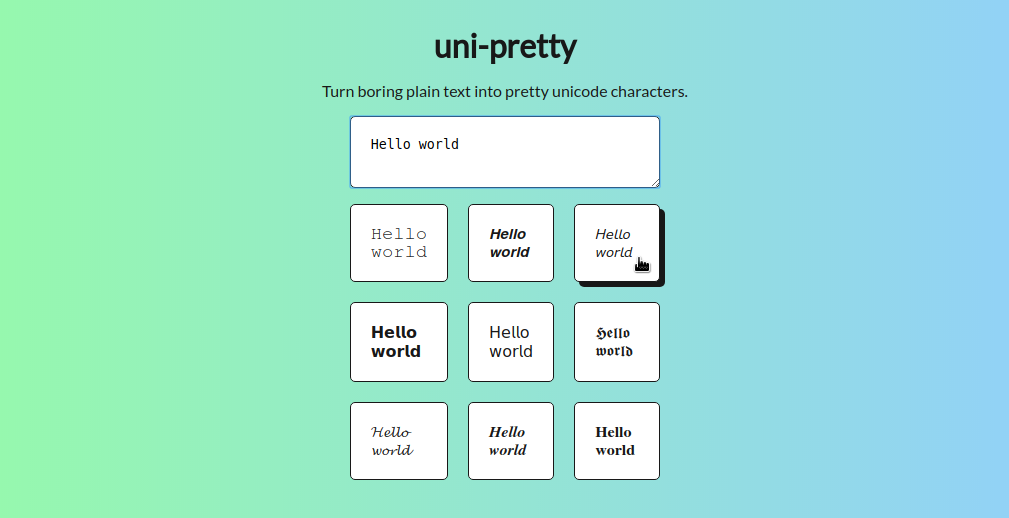
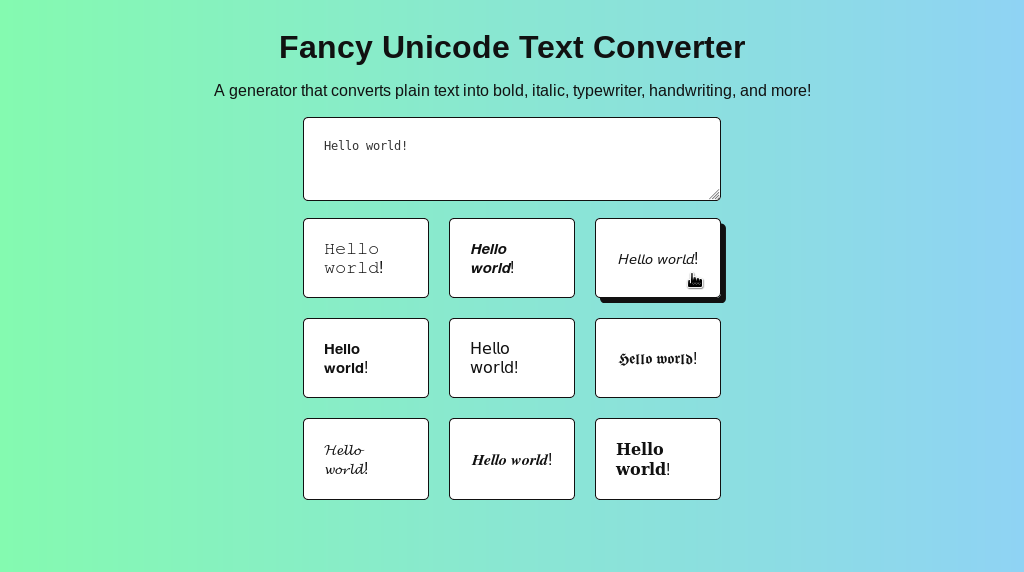
Update preprocessor, README

Changed region(s): [[0.2151, 0.0618, 0.7988, 0.9266]]

diff --git a/sass/min.sass b/sass/min.sass
@@ -1,0 +1,97 @@
+@import "vars"
+
+*
+    box-sizing: border-box
+
+html
+    box-sizing: border-box
+    font-family: $font
+    font-size: 16px
+    color: $black
+
+body
+    background-image: linear-gradient(to right, #84fab0 0%, #8fd3f4 100%)
+    background-position: fixed
+    display: flex
+    flex-direction: column
+    justify-content: space-between
+    align-items: center
+
+a
+    color: #444
+    text-decoration: none
+
+h1,h2,h3, p
+    margin-bottom: 0.5rem
+    text-align: center
+    font-family: Verdana, Tahoma, Arial, sans-serif
+
+button
+    padding: 20px
+    border: 0px
+    border-radius: 5px
+    background: $white
+    &:hover
+        box-shadow: 5px 5px $black
+
+.app
+    min-height: 80vh
+
+.section
+    display: flex
+    justify-content: center
+    align-items: center
+    margin: 1rem auto
+    width: 70%
+    @media screen and (max-width: 736px)
+        margin: 1rem
+        width: auto
+
+#string
+    padding: 20px
+    border: 1px solid $black
+    border-radius: 5px
+    background: $white
+    width: 500px
+    min-height: 3rem
+    @media screen and (max-width: 736px)
+        width: 100%
+
+#result
+    padding: 20px
+    border: 1px solid $black
+    border-radius: 5px
+    background: $white
+
+.alert
+    font-size: 0.8rem
+    color: $black
+    font-weight: 600
+
+.grid
+    display: grid
+    grid-gap:  20px
+    grid-template-columns: repeat(3, 1fr)
+    @media screen and (max-width: 736px)
+        grid-template-columns: repeat(2, 1fr)
+
+.item 
+    display: grid
+    justify-content: center
+    align-items: center
+    border: 1px solid $black
+    border-radius: 5px
+    background: $white
+    padding: 5px
+    &:hover
+        cursor: pointer
+        box-shadow: 5px 5px $black
+
+.tag
+    width: 100%
+    display: flex
+    flex-direction: column
+    justify-content: center
+    @media screen and (min-width: 737px)
+        position: absolute
+        bottom: 0.5rem

diff --git a/static/css/min.css b/static/css/min.css
@@ -1,0 +1,2 @@
+*{box-sizing:border-box}html{box-sizing:border-box;font-family:Arial,Helvetica,sans-serif;font-size:16px;color:#111}body{background-image:linear-gradient(to right, #84fab0 0%, #8fd3f4 100%);background-position:fixed;display:flex;flex-direction:column;justify-content:space-between;align-items:center}a{color:#444;text-decoration:none}h1,h2,h3,p{margin-bottom:0.5rem;text-align:center;font-family:Verdana,Tahoma,Arial,sans-serif}button{padding:20px;border:0px;border-radius:5px;background:#fff}button:hover{box-shadow:5px 5px #111}.app{min-height:80vh}.section{display:flex;justify-content:center;align-items:center;margin:1rem auto;width:70%}@media screen and (max-width: 736px){.section{margin:1rem;width:auto}}#string{padding:20px;border:1px solid #111;border-radius:5px;background:#fff;width:500px;min-height:3rem}@media screen and (max-width: 736px){#string{width:100%}}#result{padding:20px;border:1px solid #111;border-radius:5px;background:#fff}.alert{font-size:0.8rem;color:#111;font-weight:600}.grid{display:grid;grid-gap:20px;grid-template-columns:repeat(3, 1fr)}@media screen and (max-width: 736px){.grid{grid-template-columns:repeat(2, 1fr)}}.item{display:grid;justify-content:center;align-items:center;border:1px solid #111;border-radius:5px;background:#fff;padding:5px}.item:hover{cursor:pointer;box-shadow:5px 5px #111}.tag{width:100%;display:flex;flex-direction:column;justify-content:center}@media screen and (min-width: 737px){.tag{position:absolute;bottom:0.5rem}}
+/*# sourceMappingURL=min.css.map */

diff --git a/index.html b/index.html
@@ -12,9 +12,9 @@
     <meta name="description" content="Bold, italic, and fancy text generator. Instantly convert plain text into unicode characters.">
     <!-- Characters max 60-->
     <title>Fancy Unicode Text Converter</title>
-    <link rel="shortcut icon" href="img/favicon.ico" id="favicon">
-    <link rel="stylesheet" href="css/style.css">
-    <script src="maps.js"></script>
+    <link rel="shortcut icon" href="/static/img/favicon.ico" id="favicon">
+    <link rel="stylesheet" href="/static/css/min.css">
+    <script src="/static/maps.js"></script>
     <!-- Global site tag (gtag.js) - Google Analytics -->
     <script async src="https://www.googletagmanager.com/gtag/js?id=UA-115963707-1"></script>
     <script>
@@ -30,7 +30,7 @@
 
 <body>
     <div class="app">
-        <h1>uni-pretty</h1>
+        <h1>Fancy Unicode Text Converter</h1>
         <p>A generator that converts plain text into bold, italic, typewriter, handwriting, and more!</p>
         <div class="section">
             <textarea id="string" name="build" placeholder="Type anything..."></textarea>

diff --git a/sass/_vars.sass b/sass/_vars.sass
@@ -1,0 +1,11 @@
+$white: #fff
+$black: #111
+$blue: #a8edee
+$pink: #fed6e3
+
+$font: Arial, Helvetica, sans-serif
+$body-size: 16px
+$body-text: $black
+
+$links: $blue
+$links-hover: $pink

diff --git a/README.md b/README.md
@@ -2,16 +2,28 @@
 
 Okay I'll level with you: I made this so I could have fun changing my Twitter name into neat looking fonts.
 
-**See the whole thing working here: [victoria.dev/uni-pretty](https://victoria.dev/uni-pretty)**
-
-***
-
 ## Screenshot
 
 ![Main page](/screenshot.png)
 
+## Making changes
+
+Simon uses Sass as a CSS preprocessor. Here are the [installation instructions](https://sass-lang.com/install) and the [usage reference](https://sass-lang.com/documentation/file.SASS_REFERENCE.html#using_sass).
+
+Watch changes to the Sass files with: 
+
+```
+sass --watch sass/min.sass:static/css/min.css
+```
+
+Compile the Sass files to compressed CSS with:
+
+```
+sass sass/min.sass:static/css/min.css --style compressed
+```
+
 ## License
-Copyright (C) 2018 Victoria Lai
+Copyright (C) 2018-2019 Victoria Lai
 
 This program is free software: you can redistribute it and/or modify
 it under the terms of the GNU Affero General Public License as
